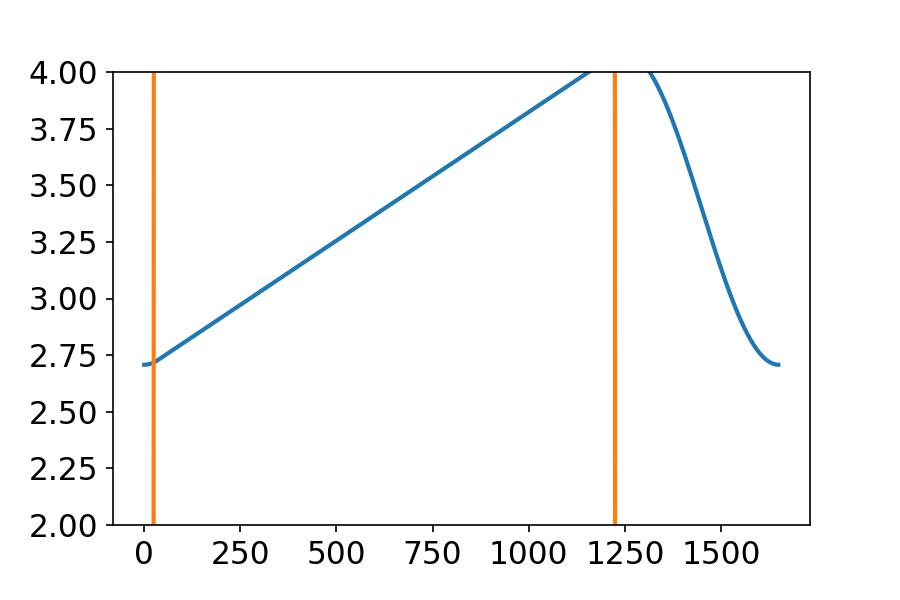
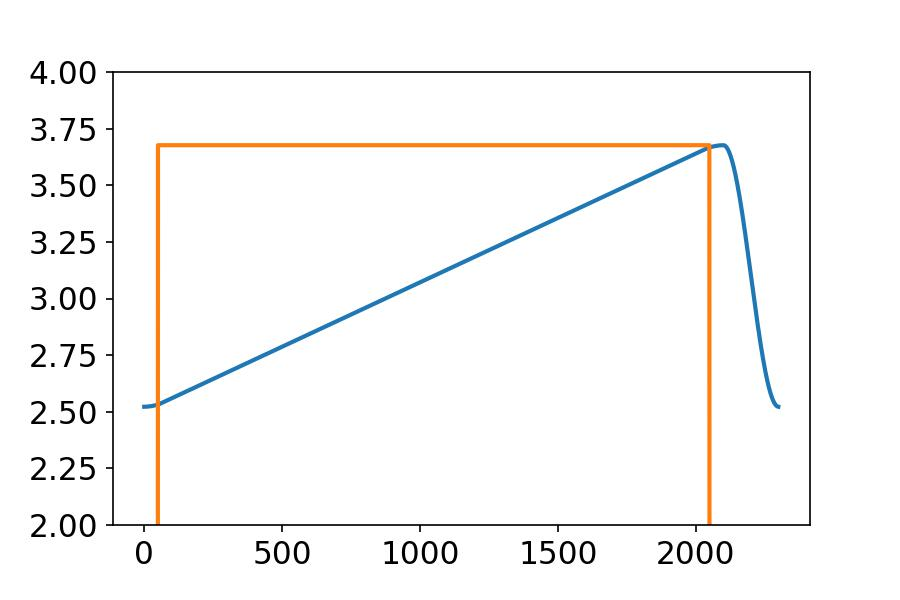
added Aline averaging

diff --git a/ThreadDnS.py b/ThreadDnS.py
@@ -98,7 +98,7 @@ class DnSThread(QThread):
                 # self.ui.PrintOut.append(message)
                 self.log.write(message)
                 print(traceback.format_exc())
-            num+=1
+            # num+=1
             # print(num, 'th display\n')
             self.item = self.queue.get()
             
@@ -127,10 +127,12 @@ class DnSThread(QThread):
         Xpixels = self.ui.Xsteps.value()*self.ui.AlineAVG.value()
         if self.Digitizer == 'ART8912':
             Xpixels = Xpixels + self.ui.PreClock.value()*2 + self.ui.PostClock.value()
-        return Zpixels, Xpixels
+            
+        Ypixels = self.ui.Ysteps.value()*self.ui.BlineAVG.value()
+        return Zpixels, Xpixels, Ypixels
             
     def Display_aline(self, data, raw = False):
-        Zpixels, Xpixels = self.get_FOV_size(raw)
+        Zpixels, Xpixels, Ypixels = self.get_FOV_size(raw)
         # get number of Y pixels
         Yrpt = self.ui.BlineAVG.value()
         # reshape data to [Ypixels*Xpixels, Zpixels]
@@ -139,8 +141,8 @@ class DnSThread(QThread):
             Zpixels = self.ui.PostSamples_2.value()-self.ui.DelaySamples.value()-self.ui.TrimSamples.value()
             data = data[:,self.ui.DelaySamples.value():self.ui.PostSamples_2.value()-self.ui.TrimSamples.value()]
 
-        self.Aline = data
         Ascan = np.float32(np.mean(data,0))
+        self.Aline = Ascan
         # float32 data type
         pixmap = LinePlot(Ascan, [], self.ui.XYmin.value()*30, self.ui.XYmax.value()*30)
         # clear content on the waveformLabel
@@ -157,7 +159,7 @@ class DnSThread(QThread):
             
     
     def Display_bline(self, data, raw = False):
-        Zpixels, Xpixels = self.get_FOV_size(raw)
+        Zpixels, Xpixels, Ypixels = self.get_FOV_size(raw)
         # get number of Y pixels
         Yrpt = self.ui.BlineAVG.value()
         # reshape data
@@ -166,9 +168,22 @@ class DnSThread(QThread):
         if self.Digitizer == 'ART8912':    
             data = data[:,self.ui.PreClock.value():self.ui.Xsteps.value()*self.ui.AlineAVG.value()+self.ui.PreClock.value(),:]
             Xpixels = self.ui.Xsteps.value()*self.ui.AlineAVG.value()
+        # Bline averaging
+        if self.ui.BlineAVG.value() > 1:
+            # reshape into Ypixels x Xpixels x Zpixels
+            data = data.reshape([Yrpt, Xpixels,Zpixels])
+            data=np.mean(data,0)
+            Ypixels = self.ui.Ysteps.value()
+        else:
+            data = data[0]
+        # Aline averaging if needed
+        if self.ui.AlineAVG.value() > 1:
+            data = data.reshape([self.ui.Xsteps.value(), self.ui.AlineAVG.value(), Zpixels])
+            data = np.mean(data,1)
+            Xpixels = self.ui.Xsteps.value()
             
         self.Bline = data
-        Bscan = np.float32(np.mean(data,0))
+        Bscan = data
         Bscan = np.transpose(Bscan).copy()
 
         pixmap = ImagePlot(Bscan, self.ui.XYmin.value(), self.ui.XYmax.value())
@@ -186,16 +201,24 @@ class DnSThread(QThread):
         
         
     def Display_Cscan(self, data, raw = False):
-        Zpixels, Xpixels = self.get_FOV_size(raw)
-        # get number of Y pixels
-        Ypixels = self.ui.Ysteps.value()#*self.ui.BlineAVG.value()
+        Zpixels, Xpixels, Ypixels = self.get_FOV_size(raw)
         # reshape data
-        data = data.reshape([self.ui.BlineAVG.value(),Ypixels, Xpixels,Zpixels])
-        data=np.mean(data,0)
+        data = data.reshape([Ypixels, Xpixels, Zpixels])
         # trim fly-back pixels
         if self.Digitizer == 'ART8912':    
             data = data[:,self.ui.PreClock.value():self.ui.Xsteps.value()*self.ui.AlineAVG.value()+self.ui.PreClock.value(),:]
             Xpixels = self.ui.Xsteps.value()*self.ui.AlineAVG.value()
+        # Bline averaging
+        if self.ui.BlineAVG.value() > 1:
+            # reshape into Ypixels x Xpixels x Zpixels
+            data = data.reshape([self.ui.Ysteps.value(),self.ui.BlineAVG.value(), Xpixels,Zpixels])
+            data=np.mean(data,1)
+            Ypixels = self.ui.Ysteps.value()
+        # Aline averaging if needed
+        if self.ui.AlineAVG.value() > 1:
+            data = data.reshape([Ypixels,self.ui.Xsteps.value(), self.ui.AlineAVG.value(), Zpixels])
+            data = np.mean(data,2)
+            Xpixels = self.ui.Xsteps.value()
             
         self.Cscan = data
         plane = np.transpose(data[0,:,:]).copy()# has to be first index, otherwise the memory space is not continuous
@@ -223,19 +246,14 @@ class DnSThread(QThread):
             self.WriteData(data, self.CscanFilename([Ypixels,Xpixels,Zpixels]))
         
     def Init_Mosaic(self, raw = False, args = []):
-        Xpixels = self.ui.Xsteps.value()*self.ui.AlineAVG.value()
+        Xpixels = self.ui.Xsteps.value()#*self.ui.AlineAVG.value()
         Ypixels = self.ui.Ysteps.value()#*self.ui.BlineAVG.value()
         
         surfX = args[1][0]
         surfY = np.int32(args[1][1]/args[1][0])
         # adjust scale ###################
         scale = self.ui.scale.value()
-        # while Xpixels%scale or Ypixels%scale:
-        #     scale -= 1
-        # message = '\nslice '+str(self.sliceNum)+' scale is '+str(scale)+'\n'
-        # print(message)
-        # self.log.write(message)
-        # self.ui.scale.setValue(scale)
+
         ###############
         self.surf = np.zeros([ surfX*(Ypixels//scale),surfY*(Xpixels//scale)],dtype = np.float32)
 
@@ -276,14 +294,10 @@ class DnSThread(QThread):
                 print('flat data not found, using all ones')
                 self.flatField = np.ones([Ypixels, Xpixels],dtype = np.float32)
             
-            # plt.figure()
-            # plt.imshow(self.flatField)
-            # plt.figure()
             self.first_tile = True
             #######################################
-
             self.zmax_scale = self.ui.scale.value()
-            ############## adjust scale
+            # ############## adjust scale
             while Xpixels%self.zmax_scale or Ypixels%self.zmax_scale:
                 self.zmax_scale -= 1
             message = '\nslice '+str(self.sliceNum)+' zmax scale is '+str(self.zmax_scale)+'\n'
@@ -299,17 +313,24 @@ class DnSThread(QThread):
 
             
     def Process_Mosaic(self, data, raw = False, args = []):
-        Zpixels, Xpixels = self.get_FOV_size(raw)
-        # get number of Y pixels
-        Ypixels = self.ui.Ysteps.value()#*self.ui.BlineAVG.value()
-        # reshape into Ypixels x Xpixels x Zpixels
-        data = data.reshape([self.ui.Ysteps.value(),self.ui.BlineAVG.value(), Xpixels,Zpixels])
-        data=np.mean(data,1)
+        Zpixels, Xpixels, Ypixels = self.get_FOV_size(raw)
+        # reshape data
+        data = data.reshape([Ypixels, Xpixels, Zpixels])
         # trim fly-back pixels
         if self.Digitizer == 'ART8912':    
             data = data[:,self.ui.PreClock.value():self.ui.Xsteps.value()*self.ui.AlineAVG.value()+self.ui.PreClock.value(),:]
             Xpixels = self.ui.Xsteps.value()*self.ui.AlineAVG.value()
-        
+        # Bline averaging
+        if self.ui.BlineAVG.value() > 1:
+            # reshape into Ypixels x Xpixels x Zpixels
+            data = data.reshape([self.ui.Ysteps.value(),self.ui.BlineAVG.value(), Xpixels,Zpixels])
+            data=np.mean(data,1)
+            Ypixels = self.ui.Ysteps.value()
+        # Aline averaging if needed
+        if self.ui.AlineAVG.value() > 1:
+            data = data.reshape([Ypixels,self.ui.Xsteps.value(), self.ui.AlineAVG.value(), Zpixels])
+            data = np.mean(data,2)
+            Xpixels = self.ui.Xsteps.value()
         ########################################
         # for odd strips, need to flip data in Y dimension and also the sequence
         surfX = args[1][0]
@@ -470,7 +491,7 @@ class DnSThread(QThread):
         
     def Update_contrast_XY(self):
         if self.ui.ACQMode.currentText() in ['SingleAline', 'RptAline']:
-            data = np.float32(np.mean(self.Aline,0))
+            data = self.Aline
             # if self.ui.LOG.currentText() == '10log10':
             #     data=10*np.log10(data+0.000001)
             pixmap = LinePlot(data, [], self.ui.XYmin.value()*30, self.ui.XYmax.value()*30)
@@ -479,7 +500,7 @@ class DnSThread(QThread):
             # update iamge on the waveformLabel
             self.ui.XZplane.setPixmap(pixmap)
         elif self.ui.ACQMode.currentText() in ['SingleBline', 'RptBline']:
-            data = np.float32(np.mean(self.Bline,0))
+            data = self.Bline
             data = np.transpose(data).copy()
             # data = np.flip(data, 1).copy()
             # if self.ui.LOG.currentText() == '10log10':

diff --git a/Generaic_functions.py b/Generaic_functions.py
@@ -51,11 +51,11 @@ def GenGalvoWave(StepSize = 1, Steps = 1000, AVG = 1, bias = 0, obj = 'OptoSigma
     # total number of steps is the product of steps and aline average number
     # use different angle to mm ratio for different objective
     if obj == 'OptoSigma5X':
-        angle2mmratio = 2.094/1.5
+        angle2mmratio = 2.094/1.19
     elif obj == 'OptoSigma10X':
-        angle2mmratio = 2.094/1.5/2
+        angle2mmratio = 2.094/2/1.19
     elif obj == 'OptoSigma20X':
-        angle2mmratio = 2.094/1.9/2.5
+        angle2mmratio = 2.094/1.19/4
         
     else:
         status = 'objective not calibrated, abort generating Galvo waveform'
@@ -246,7 +246,7 @@ def GenAODO(mode='RptBline', Aline_frq = 100000, XStepSize = 1, XSteps = 1000, A
         for ii in range(YSteps*BVG):
             CscanDO[ii*len(DOwaveform):(ii+1)*len(DOwaveform)] = DOwaveform
             
-        stagewaveform = GenStageWave_ramp(YSteps * YStepSize/1000, (XSteps + 2 * preclocks + postclocks)* YSteps * BVG)
+        stagewaveform = GenStageWave_ramp(YSteps * YStepSize/1000, (XSteps*AVG + 2 * preclocks + postclocks)* YSteps * BVG)
         # append preclocks and postclocks
         stagewaveform = pow(2,CSCAN_AXIS)*stagewaveform
         # print('distance per Cscan: ',np.sum(stagewaveform)/STEPS*DISTANCE*1000/pow(2,CSCAN_AXIS),'um')
